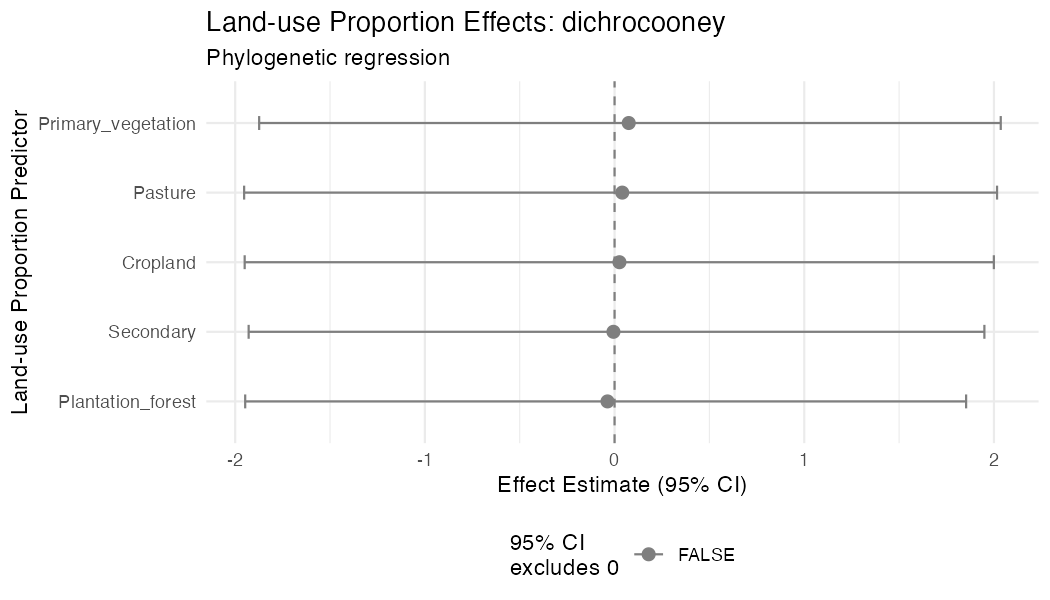
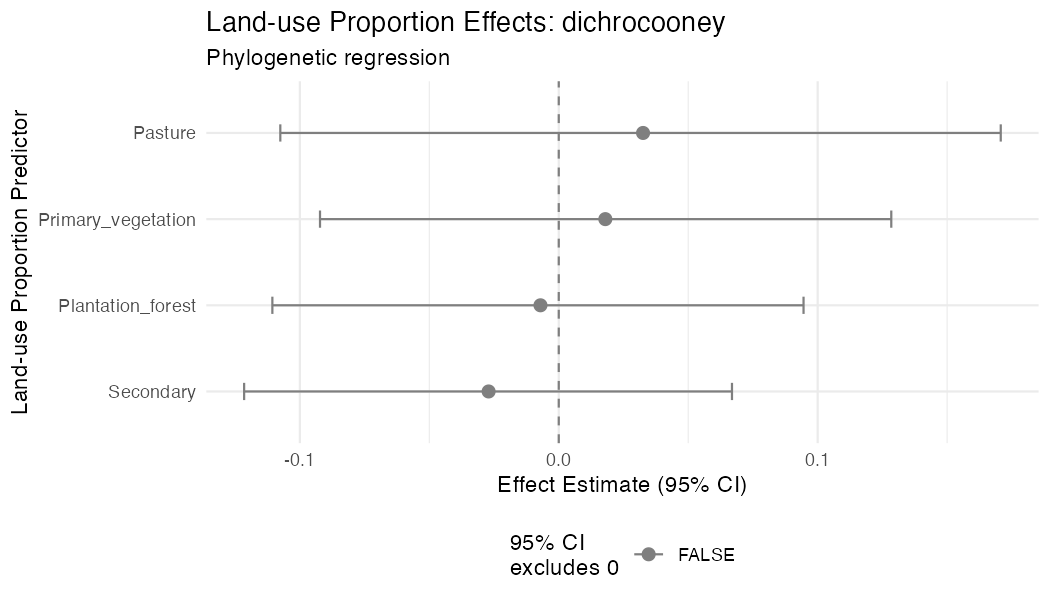
Fix A3 proportion scores to within-species relative proportions
Previously divided by total dataset size, which confounded species
prevalence with land-use association and produced uninformative
estimates (CIs spanning +/-2). Now divides by each species' total
records, giving interpretable 0-1 proportions. Cropland dropped as
reference level to avoid compositional multicollinearity.

Key finding: pasture-associated species are credibly less colourful
after phylogenetic correction (mean -0.25, male -0.23; CIs exclude 0).

diff --git a/ANALYSIS_NOTES.md b/ANALYSIS_NOTES.md
@@ -125,13 +125,13 @@ At the species level, and accounting for shared ancestry, do species that are mo
 
 ### Species-level data (computed in `A3_01_setup.R`)
 
-From the full raw dataset (216,834 records, 1,703 species), for each species and each level of `Predominant_simple`, a **land-use proportion score** is computed as:
+From the full raw dataset (216,834 records, 1,703 species), for each species and each level of `Predominant_simple`, a **within-species land-use proportion** is computed as:
 
 ```
-proportion = (records of species i in land-use j) / (total records in dataset)
+proportion = (records of species i in land-use j) / (total records of species i)
 ```
 
-This gives 5 predictor variables per species: `prop_Cropland`, `prop_Pasture`, `prop_Plantation_forest`, `prop_Primary_vegetation`, `prop_Secondary`. Some species may have 0 for certain land uses.
+These are relative proportions that sum to 1 per species, removing the confound with overall species prevalence (dividing by total dataset size would conflate "how common is this species" with "which land uses does it prefer"). Because the 5 proportions sum to 1, Cropland is dropped as the reference level (matching A1) to avoid perfect multicollinearity. This gives 4 predictor variables per species: `prop_Plantation_forest`, `prop_Primary_vegetation`, `prop_Pasture`, `prop_Secondary`, each interpretable as the fraction of that species' records occurring in that land-use type relative to Cropland. VIFs for these predictors are 3.4-4.1 (acceptable).
 
 Colour variables are species-level traits (same value per record of a given species), so the first non-NA value per species is used.
 
@@ -154,11 +154,12 @@ The crosswalk files `birdlife-birdtree_crosswalk.csv` and `clements_jetz_crosswa
 Bayesian phylogenetic regression via brms/CmdStan. For each of the three colour responses:
 
 ```
-colour ~ prop_Cropland + prop_Pasture + prop_Plantation_forest +
-         prop_Primary_vegetation + prop_Secondary +
+colour ~ prop_Plantation_forest + prop_Primary_vegetation +
+         prop_Pasture + prop_Secondary +
          (1 | gr(phylo, cov = A))
 ```
 
+- Cropland is the reference level (implicit intercept).
 - `A`: phylogenetic covariance matrix from `ape::vcv.phylo()` (correlation form).
 - `(1 | gr(phylo, cov = A))`: phylogenetic random effect accounting for shared ancestry.
 - Tree trimmed to species present in both data and tree using `ape::drop.tip()`.
@@ -171,29 +172,34 @@ Scripts: `A3_01_setup.R`, `A3_02_fit_models.R`, `A3_03_diagnostics_summary.R`.
 
 ### Convergence
 
-All three models converged: 0 divergences, max Rhat <= 1.003, min bulk ESS >= 1,305, min tail ESS >= 2,524. The malecolcooney model produced an E-BFMI < 0.3 warning (common with large phylogenetic covariance matrices) but Rhat and ESS values were satisfactory.
+All three models converged: 0 divergences, max Rhat <= 1.003, min bulk ESS >= 1,418, min tail ESS >= 2,669.
 
 ### Key results
 
-**Variance explained:** R² = 89.2% (meancolcooney, 95% CI: 85.3-92.4%), 86.7% (malecolcooney, 82.5-90.3%), 46.7% (dichrocooney, 37.2-56.7%). The high R² is driven almost entirely by the phylogenetic random effect (shared ancestry), not the land-use predictors.
+**Variance explained:** R² = 88.8% (meancolcooney, 95% CI: 84.9-92.1%), 86.4% (malecolcooney, 82.1-90.2%), 47.1% (dichrocooney, 37.5-57.3%). The high R² is driven almost entirely by the phylogenetic random effect (shared ancestry).
 
-**Land-use proportion effects:** No land-use proportion score is a credible predictor of any colour metric. All estimates are near zero (range -0.07 to +0.07) with very wide 95% credible intervals spanning approximately +/-2. The phylogenetic signal dominates -- closely related species have similar colouration regardless of which land-use types they occupy.
+**Land-use proportion effects (relative to Cropland):**
+- **Pasture:** credible negative effect on mean colour (-0.25, 95% CI: -0.42 to -0.08) and male colour (-0.23, 95% CI: -0.43 to -0.03). Species more associated with pastures are less colourful than those associated with cropland, after accounting for phylogeny.
+- **Primary vegetation:** negative trend for mean colour (-0.09, CI: -0.23 to 0.04) and male colour (-0.09, CI: -0.24 to 0.07), but 95% CIs include zero.
+- **Plantation forest:** small negative trend (-0.07 mean, -0.06 male), CIs include zero.
+- **Secondary:** near zero (-0.05 mean, -0.06 male), CIs include zero.
+- **Dichromatism:** no land-use proportion is a credible predictor (all estimates within -0.03 to +0.03, CIs include zero).
 
 **Phylogenetic signal:** The phylogenetic SD is large relative to the residual: sd(phylo) = 0.52 (meancolcooney), 0.56 (malecolcooney), 0.26 (dichrocooney), compared to sigma = 0.14, 0.17, 0.17 respectively. This confirms strong phylogenetic conservatism in plumage colouration, especially for overall colourfulness. Dichromatism shows weaker (but still substantial) phylogenetic signal.
 
 ## Summary interpretation (A1 + A2 + A3)
 
-Land use does not directly shift community colour in a simple way. Effects are mediated by trophic ecology and habitat context, and there is no evolutionary signal linking land-use affinity to colour:
+Land use does not directly shift community colour in a simple way. Effects are mediated by trophic ecology and habitat context:
 
 1. **Trophic niche is a much stronger predictor of colour than land use** (A1). Nectarivores and frugivores are the most colourful guilds.
 2. **Plantation forests filter against colourful frugivores** (A1). The plantation forest x frugivore interaction is the strongest in the dataset.
 3. **Colourful species are slightly more abundant overall, but this advantage is land-use dependent** (A2). The positive colour-abundance relationship disappears in forested land uses (plantation + primary) and is amplified in pastures.
 4. **Larger-bodied birds are consistently less colourful** (A1).
-5. **Plumage colour is strongly phylogenetically conserved** (A3). After accounting for shared ancestry, species-level land-use association has no detectable effect on colouration. The community-level patterns in A1/A2 reflect ecological filtering (which species occur where) rather than evolutionary divergence in colour linked to land-use affinity.
+5. **Plumage colour is strongly phylogenetically conserved** (A3). R² from phylogeny alone is 87-89% for colourfulness and 47% for dichromatism.
+6. **Pasture-associated species are less colourful after accounting for phylogeny** (A3). This is the only land-use effect that survives phylogenetic correction, and it applies to overall and male colourfulness but not to dichromatism. This is consistent with A2's finding that colourful species are disproportionately abundant in pastures at the community level -- the A3 result suggests a phylogenetic component: lineages associated with open/pastoral habitats tend to be less colourful.
 
 ## Next steps
 
 - Investigate the plantation forest x frugivore interaction more deeply (e.g., which frugivore lineages are most affected).
 - Explore spatial patterns (biome-specific effects).
 - Sensitivity analyses: effect of abundance threshold, alternative colour metrics (VolumeUVS).
-- Consider whether the A3 proportion score could be refined (e.g., relative to total records per species rather than total dataset size).
